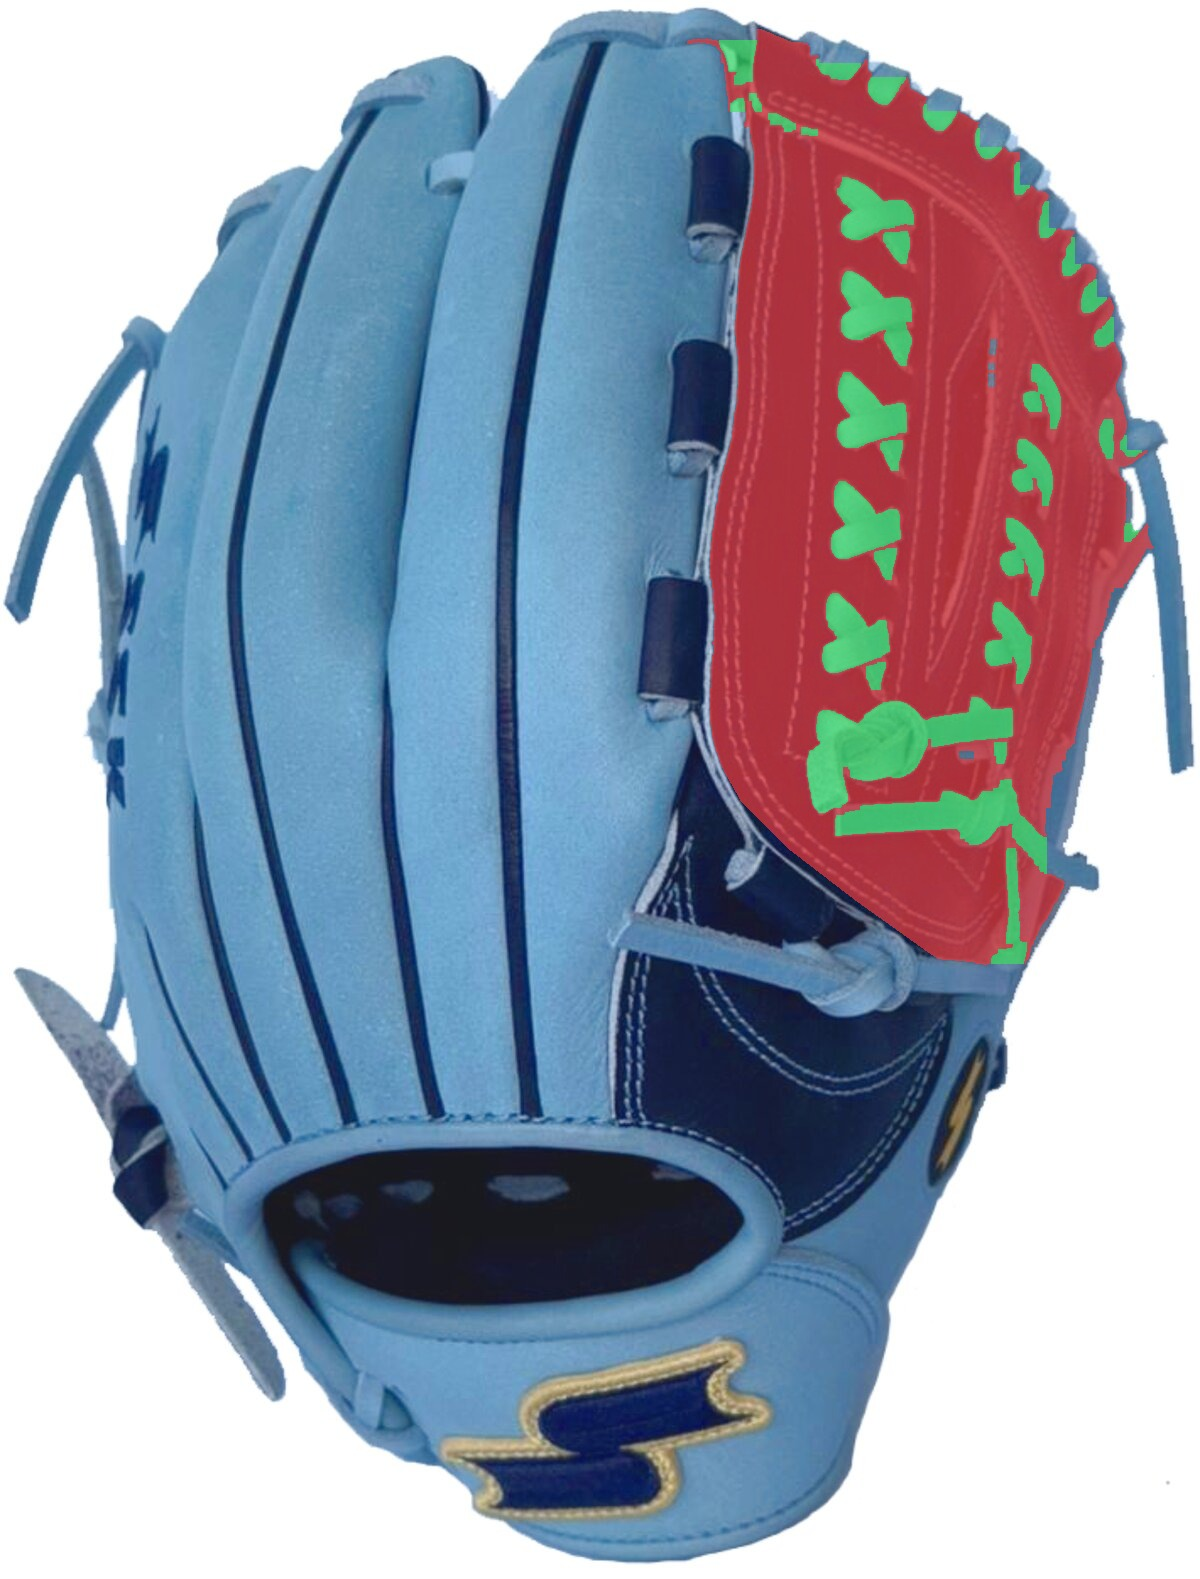
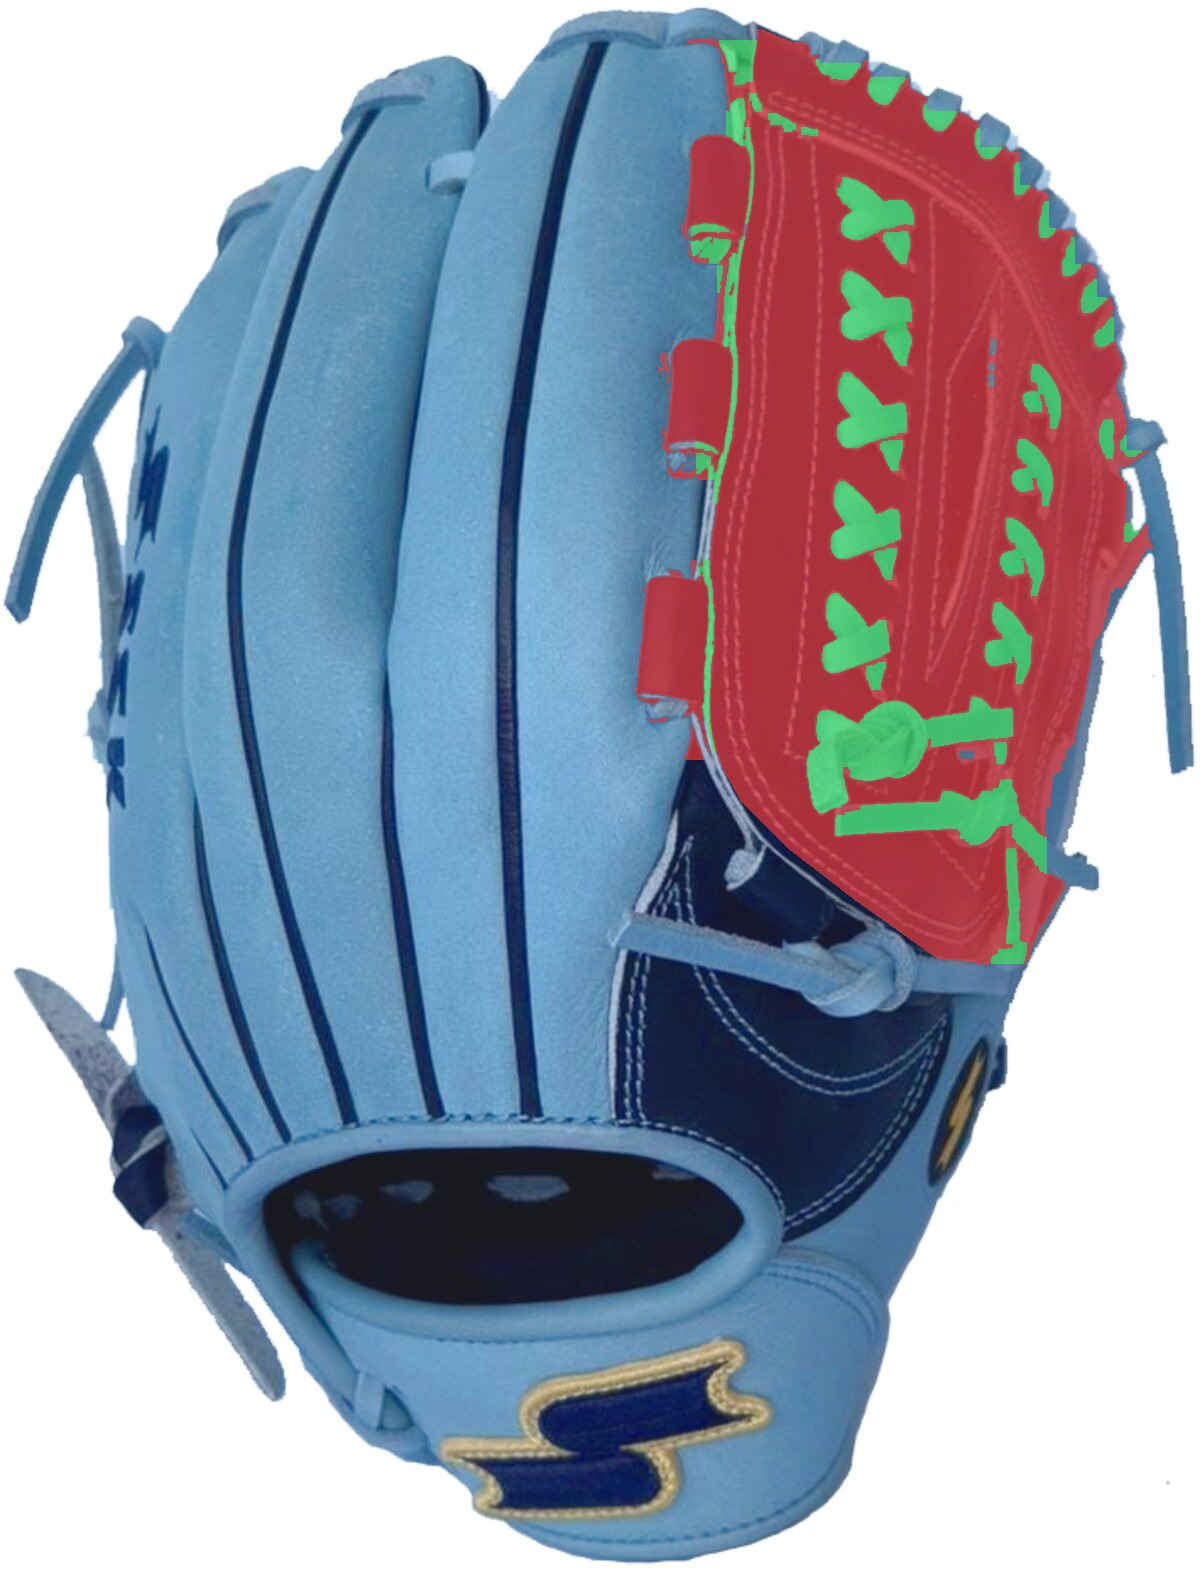
The web's lace loops, and fitting it to the glove
Three of the leather loops the lace passes through were being cut away with
the seam — they sit on the finger side of it but they are web. They go back in
as explicit regions.

A fourth, low beside back 2, is deliberately left out: at that angle it and
back 2's leather are one unbroken dark region and erosion will not part them,
so any box round it takes panel too. A missing loop reads better than a
rectangle of thumb.

Sizing is a perspective warp onto the reference glove's web opening, not a
stretch. The photographed webs are nearer face-on than the calibration glove
is, so their webs look far wider — 0.55 against 0.33 — and dropping one in
unwarped would hang over the thumb. Warped through the two minimum-area
rectangles it lands at x[597-823] y[18-714] against an opening of
x[592-823] y[16-716].

Claude-Session: https://claude.ai/code/session_01LrwdtXa84bx1vtPD2tbGHV

Changed region(s): [[0.555, 0.0621, 0.6475, 0.3103], [0.5242, 0.3414, 0.6167, 0.4965]]

diff --git a/glove_builder/make_web.py b/glove_builder/make_web.py
@@ -39,6 +39,14 @@ WEBS = {
         "leather_is_dark": True,
         "seam": [(0, 686), (700, 700), (750, 712), (800, 740),
                  (850, 790), (900, 855), (950, 925), (1000, 1000)],
+        # the leather loops the lace passes through: web, but the seam cuts
+        # them off because they sit on the finger side of it.
+        #
+        # There is a fourth, low down beside back 2. It is left out: at this
+        # angle it and back 2's leather are one unbroken dark region — erosion
+        # will not part them — so a box round it takes panel as well, which
+        # reads worse than the missing loop does.
+        "loops": [(655, 130, 755, 480), (630, 560, 715, 760)],
     },
 }
 
@@ -69,6 +77,11 @@ def cut(spec):
     web = lbl == (int(np.argmax(sizes)) + 1)
     web = ndimage.binary_closing(web, np.ones((7, 7), bool))
 
+    for x0, y0, x1, y1 in spec.get("loops", ()):
+        box = np.zeros_like(web)
+        box[y0:y1, x0:x1] = True
+        web |= body & box
+
     # the lacing is whatever sits inside the web's outline and is not leather
     hull = ndimage.binary_fill_holes(
         ndimage.binary_closing(web, np.ones((45, 45), bool))) & keep
@@ -85,6 +98,36 @@ def rgba(im, mask):
     return Image.fromarray(a, "RGBA")
 
 
+def quad(mask):
+    """Corners of the mask's minimum-area rectangle, ordered around it."""
+    import cv2
+    cs, _ = cv2.findContours(mask.astype(np.uint8), cv2.RETR_EXTERNAL,
+                             cv2.CHAIN_APPROX_SIMPLE)
+    box = cv2.boxPoints(cv2.minAreaRect(max(cs, key=cv2.contourArea)))
+    ctr = box.mean(0)
+    order = np.argsort(np.arctan2(box[:, 1] - ctr[1], box[:, 0] - ctr[0]))
+    return box[order].astype(np.float32)
+
+
+def fit(layers, web_mask, height=1100):
+    """Warp a cutout onto the reference glove's web aperture.
+
+    Not a stretch — a perspective transform. The reference glove is
+    photographed at more of an angle than these webs are, so its web is
+    foreshortened; the same foreshortening has to be applied to anything
+    dropped into that opening or it sits there too wide.
+    """
+    import cv2
+    ref_im = Image.open(HERE / "layers/rainbow-back-4x/web.png").convert("RGBA")
+    w = int(ref_im.width * height / ref_im.height)
+    ref = np.asarray(ref_im.resize((w, height), Image.LANCZOS))[..., 3] > 90
+    M = cv2.getPerspectiveTransform(quad(web_mask), quad(ref))
+    return {n: Image.fromarray(
+                cv2.warpPerspective(np.asarray(im), M, (w, height),
+                                    flags=cv2.INTER_LANCZOS4), "RGBA")
+            for n, im in layers.items()}
+
+
 def main():
     ap = argparse.ArgumentParser()
     ap.add_argument("--web", required=True, choices=sorted(WEBS))
@@ -94,8 +137,16 @@ def main():
 
     out = HERE / "runs" / f"web-{args.web}"
     out.mkdir(parents=True, exist_ok=True)
-    rgba(im, web).save(out / "leather.png")
-    rgba(im, lace).save(out / "lace.png")
+    layers = {"leather": rgba(im, web), "lace": rgba(im, lace)}
+    for n, layer in layers.items():
+        layer.save(out / f"{n}.png")
+
+    aligned = fit(layers, web | lace)
+    base = Image.open(HERE / "customiser/assets/glove.webp").convert("RGBA")
+    for n, layer in aligned.items():
+        layer.save(out / f"{n}_aligned.png")
+        base.alpha_composite(layer)
+    base.convert("RGB").save(out / "fit.jpg", quality=92)
 
     ov = np.asarray(im).copy()
     ov[web] = (0.35 * ov[web] + 0.65 * np.array([255, 60, 60])).astype(np.uint8)
